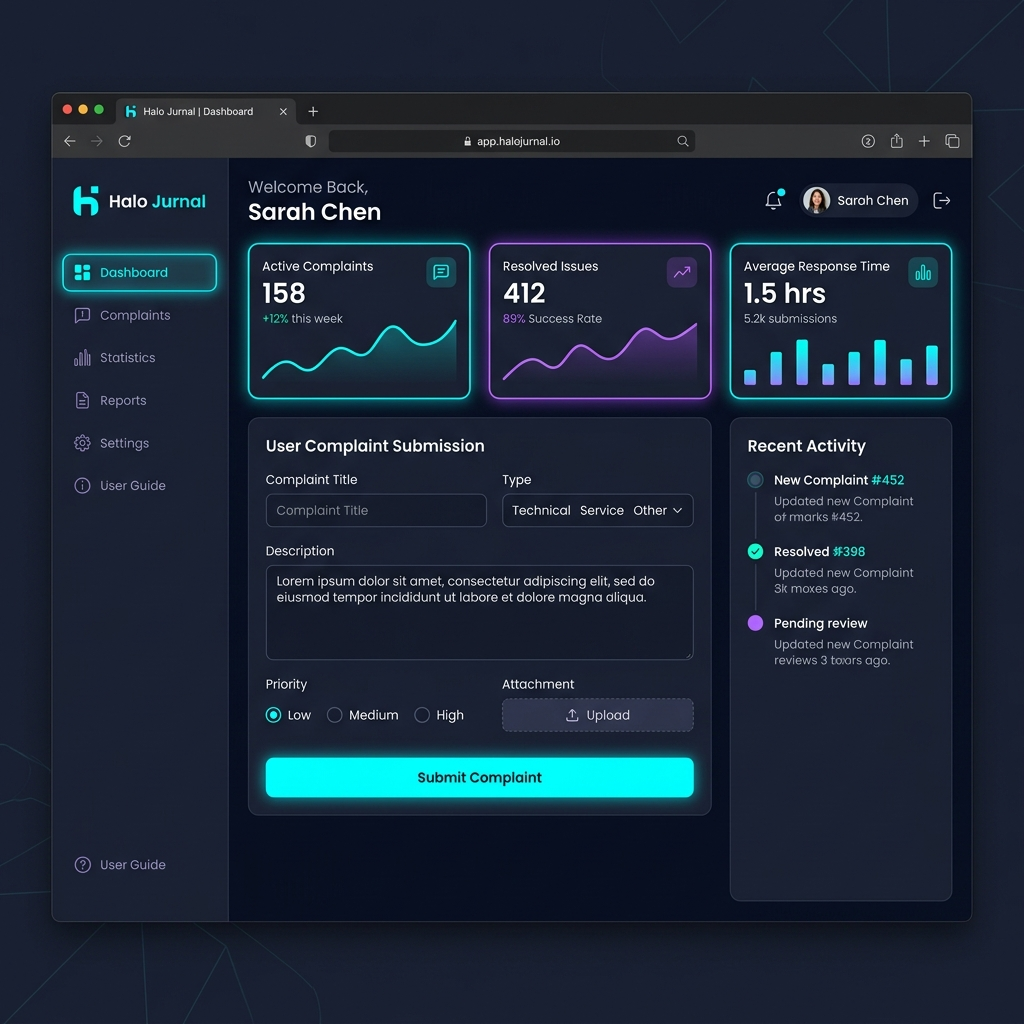
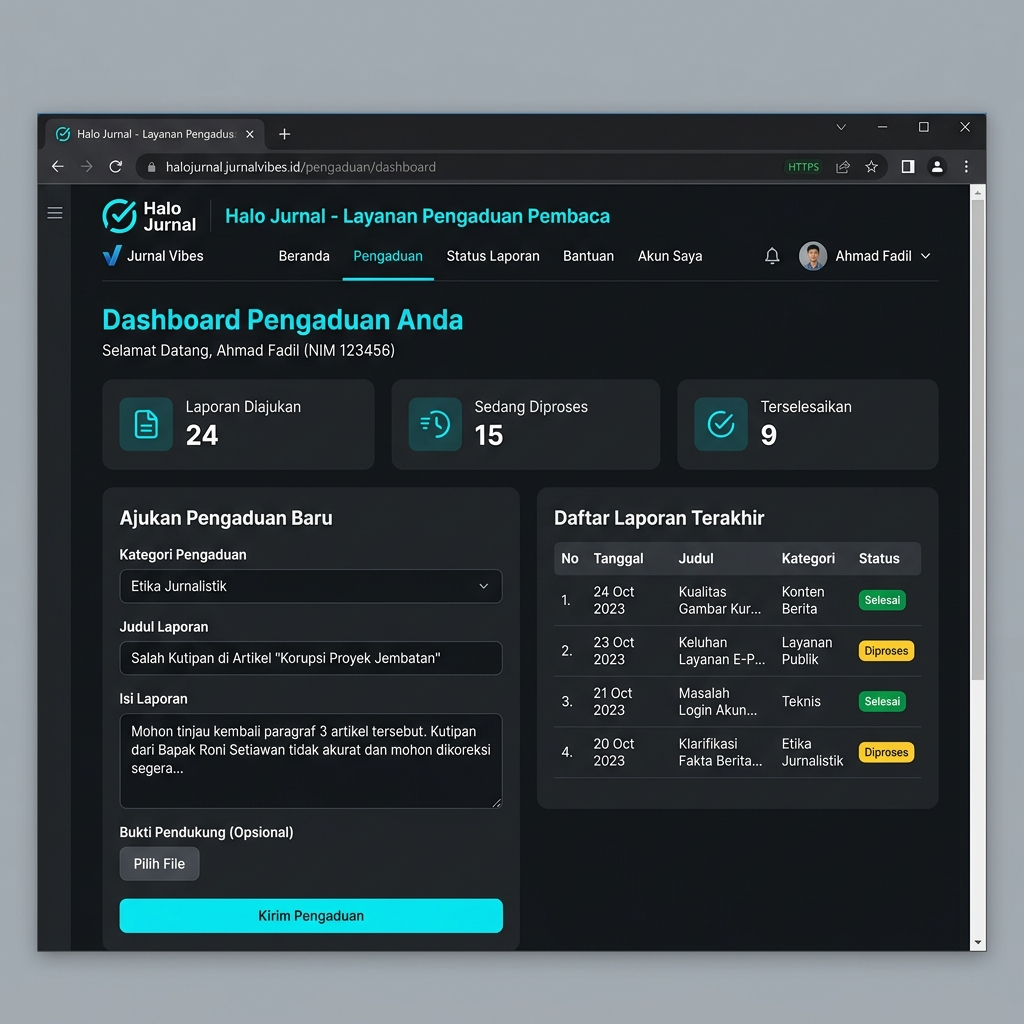
Force replace fake image and strip lazy loading from Project component

diff --git a/app/page.js b/app/page.js
@@ -1055,7 +1055,7 @@ function ProjectsSection() {
       techStack: ["Next.js", "Tailwind CSS"],
       github: "https://github.com/dmakapeli-prog/jurnal-vibes-app.git",
       live: "https://jurnal-vibes-app.vercel.app/",
-      image: "https://image.thum.io/get/width/800/crop/600/https://jurnal-vibes-app.vercel.app/",
+      image: "/halo-jurnal.png",
     },
     {
       icon: "📢",
@@ -1110,7 +1110,7 @@ function ProjectsSection() {
       techStack: ["Next.js", "Tailwind CSS", "Vercel"],
       github: null,
       live: "https://esports-bracket-generator.vercel.app/",
-      image: "https://image.thum.io/get/width/800/crop/600/https://esports-bracket-generator.vercel.app/",
+      image: "/project-dicode.png",
     },
     {
       icon: "🛒",
